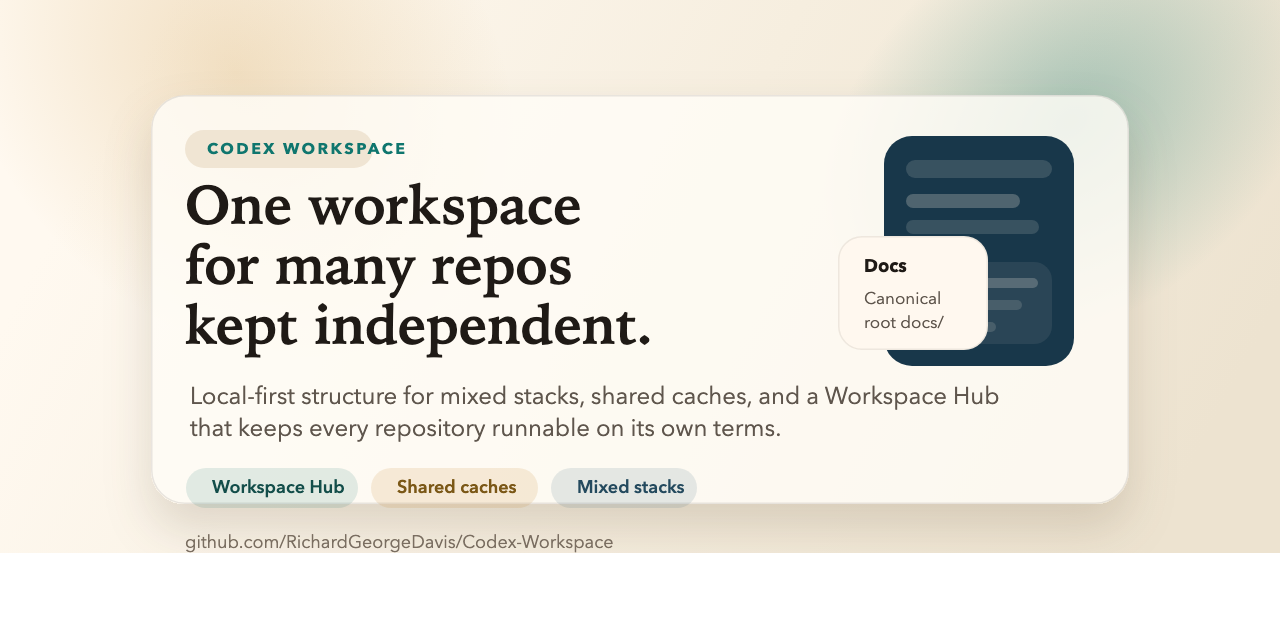
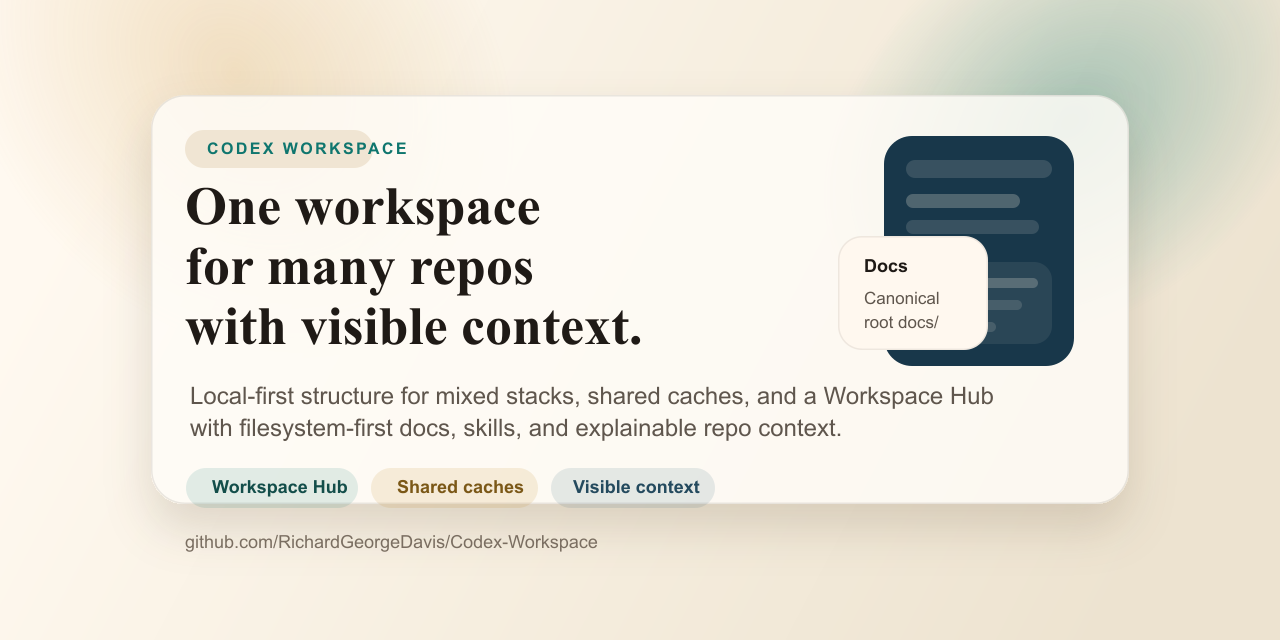
Refresh repository cover and preview assets

diff --git a/.github/assets/README.md b/.github/assets/README.md
@@ -2,6 +2,10 @@
 
 `social-preview.png` is the repository social preview image sized for GitHub's recommended 1280 x 640 layout.
 
+`cover-readme-20260321.png` is the current versioned README cover image used to avoid stale GitHub image caching on the repository page.
+
+`social-preview.svg` is the editable source for the current social preview artwork, including the refreshed visible-context project framing.
+
 Use it in:
 
 1. Repository `Settings`
